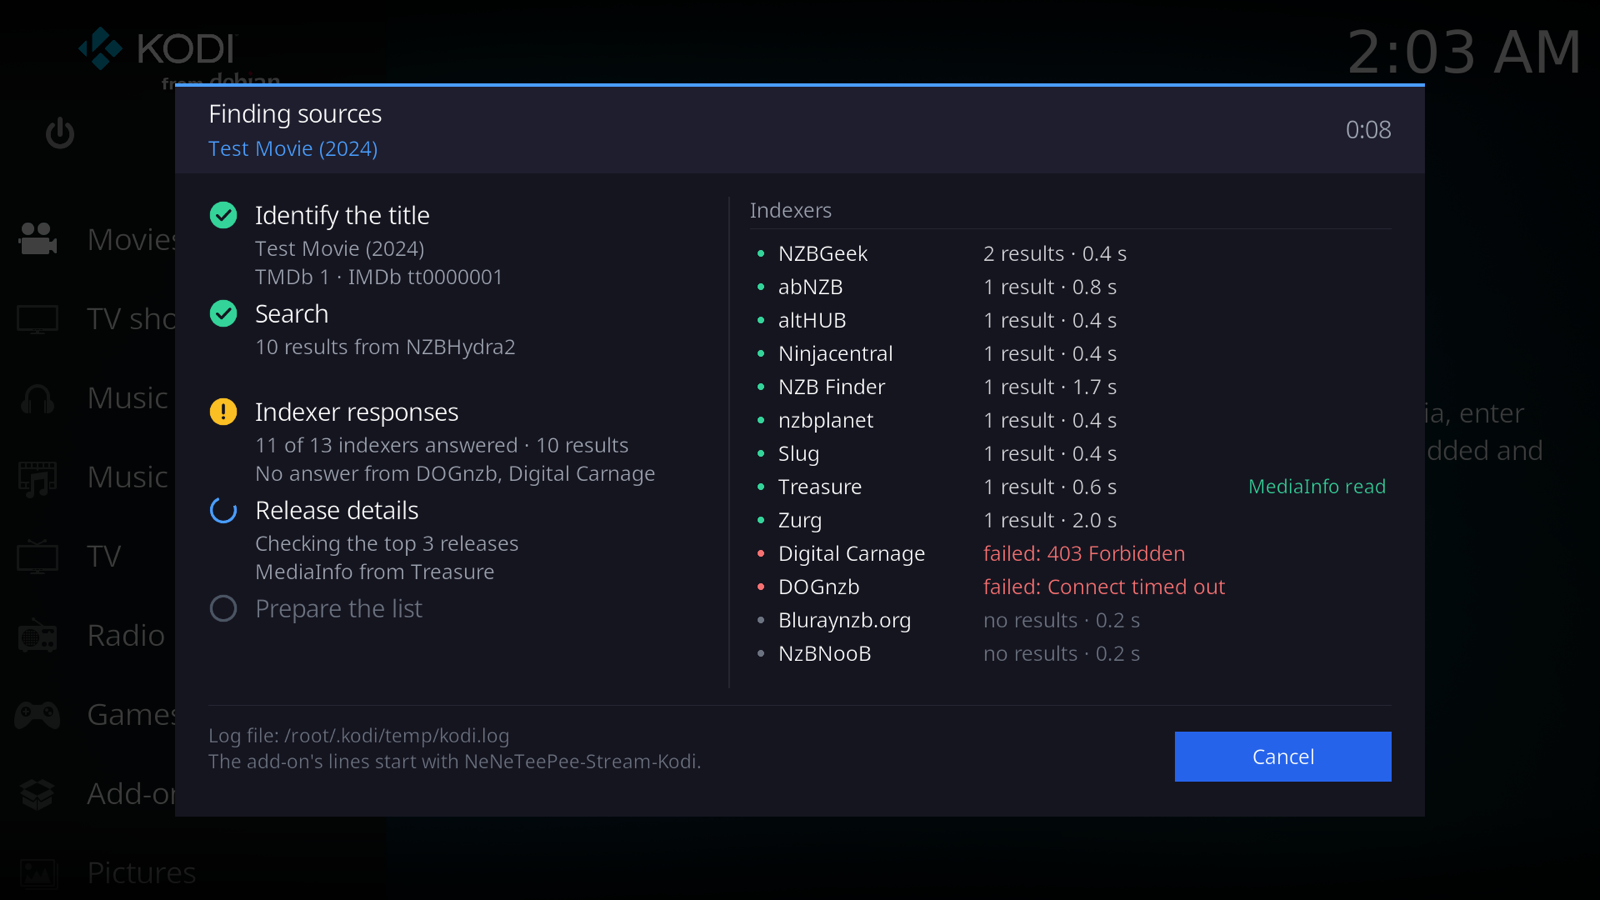
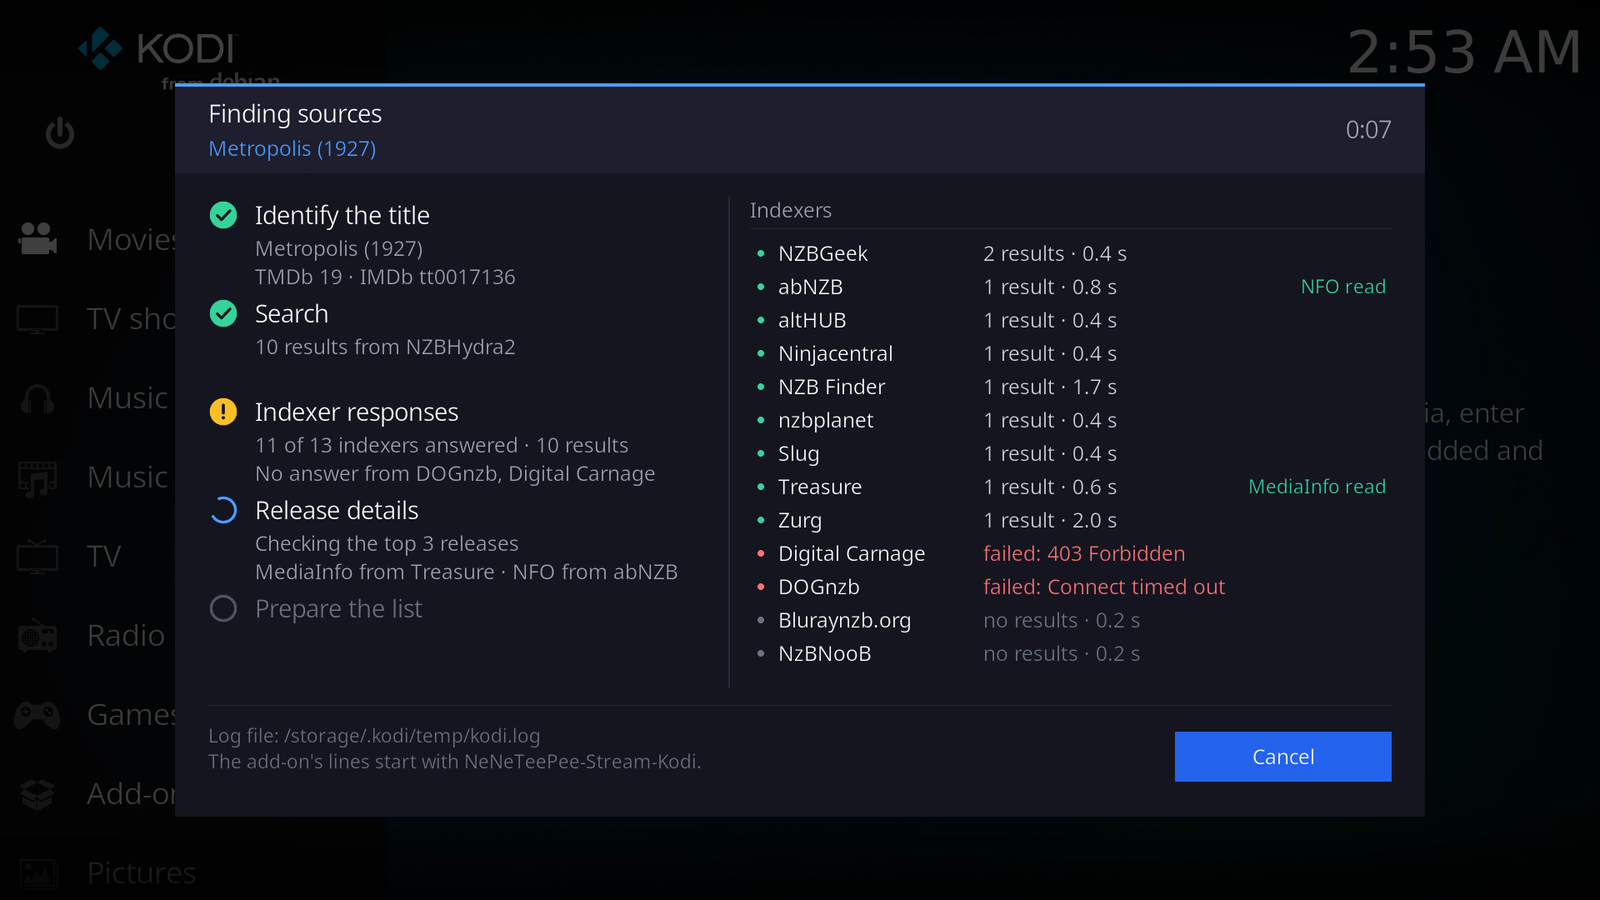
Add a GIF and a stage chart, and the visuals rule for PRs and docs
Record the search progress window for Metropolis (1927) in a throwaway
Kodi profile with the CoreELEC layout, replace the still with one from
that run, and add a Mermaid chart of the stages in the window's colors.

AGENTS.md gains a 'Visuals in PRs and docs' section (screenshots or
GIFs in PRs and docs, Mermaid charts, the docs theme and the add-on's
palette, no copyrighted content, nothing sensitive in images), and
CLAUDE.md the Claude-specific checks after its AGENTS.md import.

diff --git a/AGENTS.md b/AGENTS.md
@@ -169,6 +169,16 @@ The background service (`service.py`) runs `StreamProxy`. MP4 sources may be rew
 - Preserve Kodi shutdown behavior, playback failure paths, and proxy seeking.
 - Read `TODO.md` before changing stream proxy, fallback, or release architecture.
 
+## Visuals in PRs and docs
+
+The maintainer reads visually, so a good picture is part of the change. For any user-visible change (a dialog, the picker, a setting, a flow):
+
+- Show it. Attach a screenshot, or better an animated GIF of the flow, to the PR, and add it to the matching `docs-site/` page (which GitHub Pages publishes). Put images in `docs-site/images/`; keep a GIF short (about 10-20 s) and under about 2 MB. Look at every image before you attach it.
+- Draw flows and decisions as Mermaid charts in the docs and PR bodies; the docs site renders `mermaid` code fences. Prefer `flowchart TD` so the chart stays readable on a narrow page. Other charts and graphs are welcome wherever they explain something faster than prose.
+- Follow the design system: the docs use the Material theme in `mkdocs.yml` (deep purple, light and dark), and pictures of the add-on use its own skin palette (panels `#151520` / `#1E1E2E`, accent blue `#4A9EFF`, green `#34D399`, amber `#FBBF24`, red `#F87171`). Use the same colors in Mermaid `classDef`s.
+- Capture in a throwaway test Kodi, such as a VM with fake backends. Never show copyrighted content playing; use a public-domain film such as *Metropolis* (1927) or a test pattern.
+- Never show anything sensitive: no absolute paths from a development machine, usernames, hostnames, IP addresses, API keys, or the names of private indexers or servers. Use generic names (for example a user named "Viewer"), the CoreELEC layout (`/storage/.kodi/...`), and public indexer names, or black the detail out of the image.
+
 ## Change recipes
 
 ### Adding settings

diff --git a/docs-site/features/search-progress.md b/docs-site/features/search-progress.md
@@ -5,6 +5,37 @@ search step by step until the release list opens. It replaces the small busy
 indicator earlier versions showed in the corner, so a slow indexer no longer
 looks like a frozen screen.
 
+![The search progress window following a search for Metropolis (1927), from pressing play to the release list](../images/search-progress.gif)
+
+*Recorded in a test Kodi against a stand-in NZBHydra2 with two failing
+indexers and three that offer NFO or MediaInfo details.*
+
+## How a search moves through the stages
+
+```mermaid
+flowchart TD
+    play([Press play]) --> id[Identify the title<br/>title, season, episode, IDs]
+    id --> search[Search<br/>NZBHydra2, Prowlarr or direct indexers]
+    search --> idx[Indexer responses<br/>results, times, failures]
+    idx --> details[Release details<br/>NFO and MediaInfo of the top releases]
+    details --> prepare[Prepare the list<br/>filter, sort, check downloads]
+    prepare --> picker([Release list])
+    id -. Cancel .-> stop([Stops quietly])
+    search -. Cancel .-> stop
+    details -. turned off or nothing new .-> prepare
+    prepare -. Auto-select on .-> playbest([Plays the best match])
+
+    classDef stage fill:#151520,stroke:#4A9EFF,color:#FFFFFF
+    classDef endpoint fill:#1E1E2E,stroke:#34D399,color:#FFFFFF
+    classDef halt fill:#1E1E2E,stroke:#FBBF24,color:#FFFFFF
+    class id,search,idx,details,prepare stage
+    class play,picker,playbest endpoint
+    class stop halt
+```
+
+The colors match the window: blue for a stage in hand, green for the start
+and the finish, amber for a stop.
+
 ![Search progress window while release details are read](../images/search-progress.png)
 
 ## What each stage shows

diff --git a/CLAUDE.md b/CLAUDE.md
@@ -1,4 +1,12 @@
 @AGENTS.md
+
+## Visuals (Claude-specific)
+
+Follow [Visuals in PRs and docs](AGENTS.md#visuals-in-prs-and-docs). In addition:
+
+- Read every screenshot or GIF frame yourself before attaching it, and check the docs page renders (build with `just docs` and open the page in the built-in browser), including each Mermaid chart.
+- In a project thread, also send the images to the person with `SendUserFile` and attach them to your reply.
+
 @SECURITY.md
 
 ## Model routing policy (Claude-specific)
